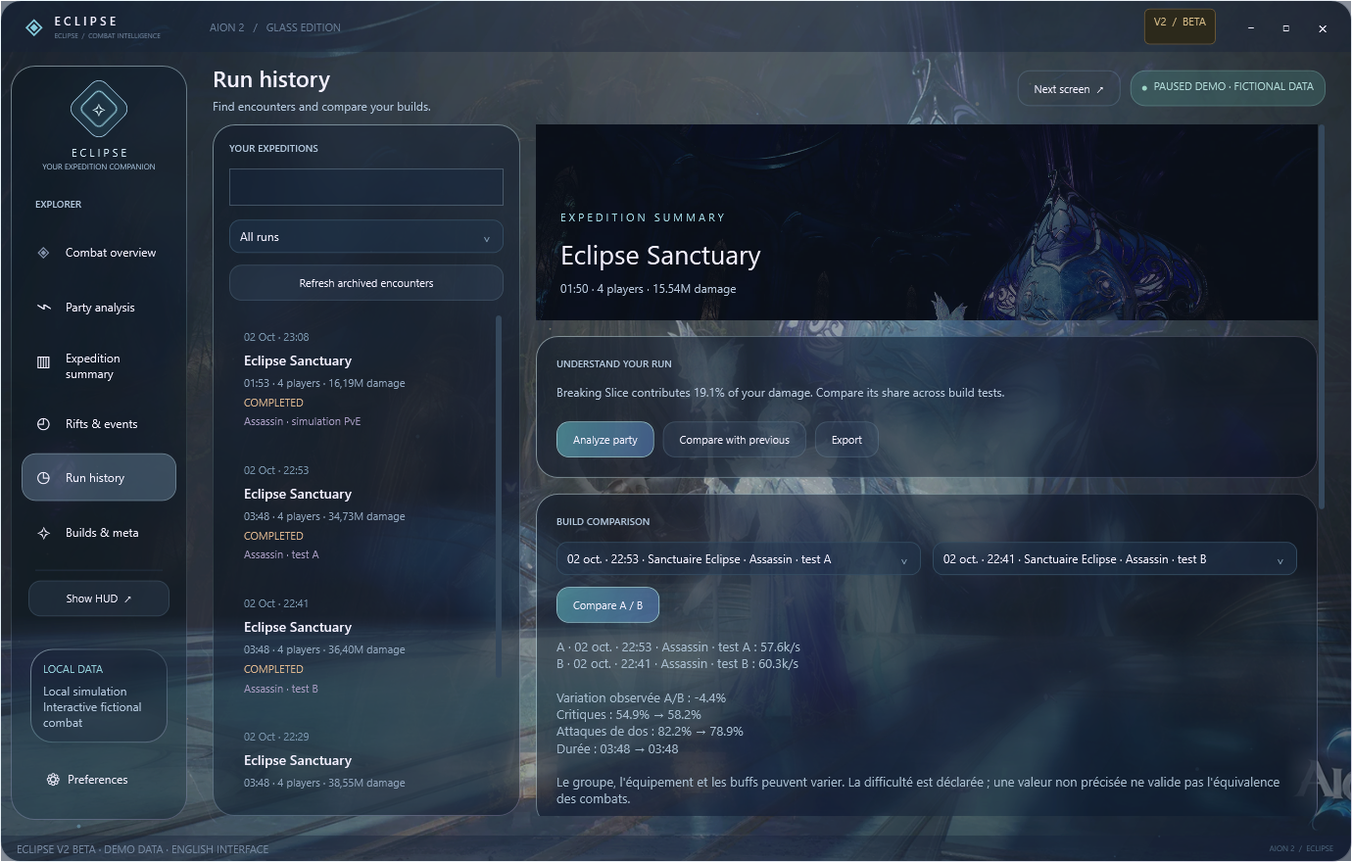
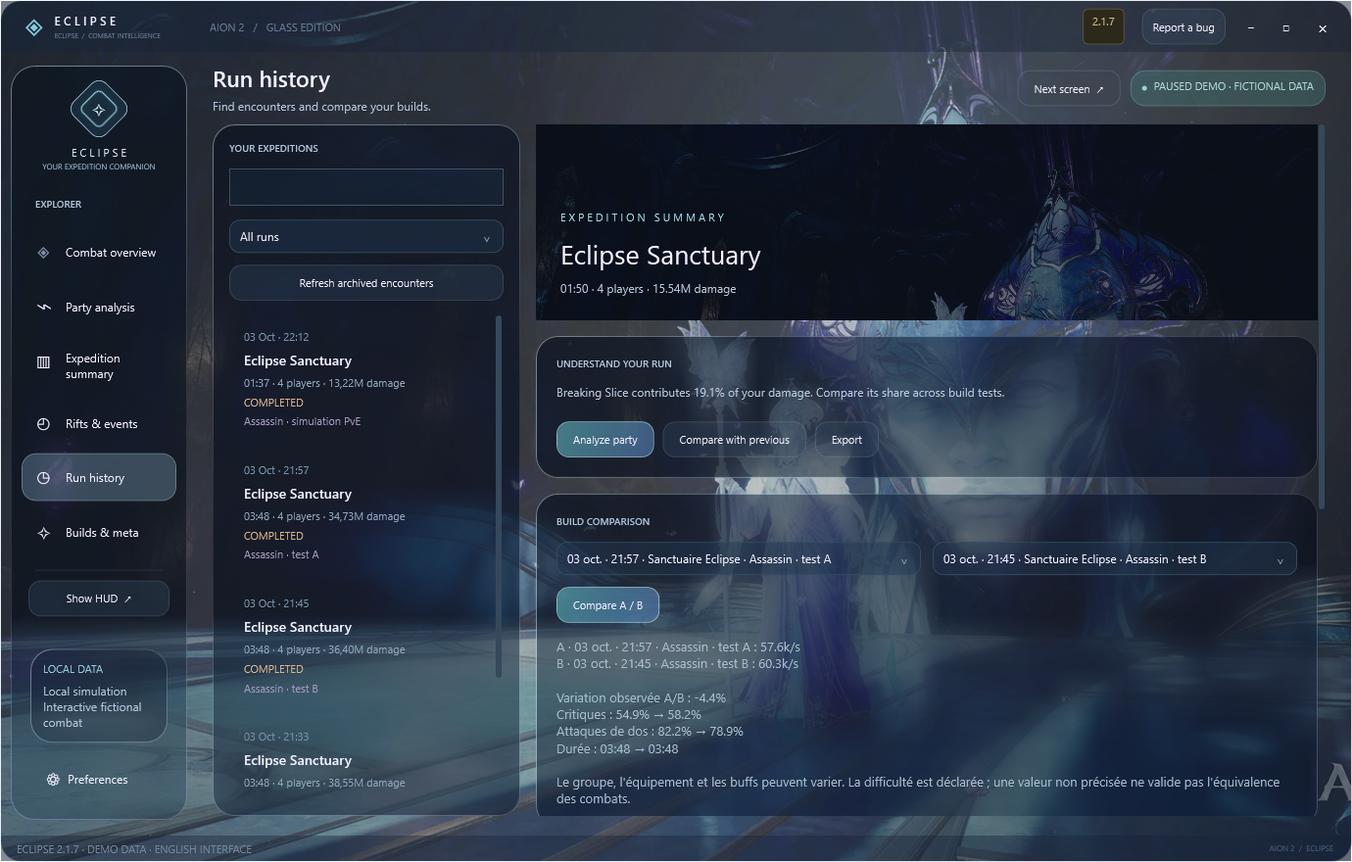
Release Eclipse 2.1.7 with corrected timers, client UPDATE and official website

diff --git a/README.md b/README.md
@@ -1,10 +1,10 @@
-# Eclipse V2 BETA — Free AION 2 DPS Meter & Combat Analyzer
+# Eclipse 2.1.7 — Free AION 2 DPS Meter & Combat Analyzer
 
-![Eclipse V2 BETA — AION 2 party DPS meter, Glass client and combat analysis for Windows](docs/images/eclipse-banner.svg)
+![Eclipse 2.1.7 — AION 2 party DPS meter, Glass client and combat analysis for Windows](docs/images/eclipse-banner.svg)
 
 [![Latest release](https://img.shields.io/github/v/release/Iota-Nine/Aion2-Eclipse?label=Download&color=75bdcf)](https://github.com/Iota-Nine/Aion2-Eclipse/releases/latest)
 [![Downloads](https://img.shields.io/github/downloads/Iota-Nine/Aion2-Eclipse/total?color=9384d0)](https://github.com/Iota-Nine/Aion2-Eclipse/releases)
-![Public BETA](https://img.shields.io/badge/V2-PUBLIC%20BETA-d8bd88)
+![Version 2.1.7](https://img.shields.io/badge/Version-2.1.7-d8bd88)
 ![Windows x64](https://img.shields.io/badge/Windows-x64-507cab)
 ![English and French](https://img.shields.io/badge/Language-EN%20%2F%20FR-75bdcf)
 
@@ -12,11 +12,11 @@
 
 Eclipse is a free AION 2 damage meter for Windows with a live party overlay and a full Glass desktop client. Follow damage, inspect skills, review dungeon runs and compare your builds in one place. Keep it on a second monitor, minimize it during the fight, then come back to your expedition summary.
 
-**[Download Eclipse V2 BETA for Windows](https://github.com/Iota-Nine/Aion2-Eclipse/releases/latest)** · [Français](docs/README.fr.md) · [What's new](CHANGELOG.md) · [Report an issue](https://github.com/Iota-Nine/Aion2-Eclipse/issues/new/choose)
+**[Download Eclipse 2.1.7 for Windows](https://github.com/Iota-Nine/Aion2-Eclipse/releases/latest)** · [Français](docs/README.fr.md) · [What's new](CHANGELOG.md) · [Report an issue](https://github.com/Iota-Nine/Aion2-Eclipse/issues/new/choose)
 
-**V2 BETA is the main Eclipse update and replaces V1.** Existing users can use **UPDATE**; new users get the same V2 ZIP. English is the default language. French is available in Preferences. No Eclipse account or signup is required.
+**Eclipse 2.1.7 is the main Eclipse update and replaces V1.** Existing users can use **UPDATE**; new users get the same V2 ZIP. English is the default language. French is available in Preferences. No Eclipse account or signup is required.
 
-![AION 2 DPS meter — Eclipse V2 BETA English combat overview with party damage and skill analysis](docs/images/eclipse-combat-en.png)
+![AION 2 DPS meter — Eclipse 2.1.7 English combat overview with party damage and skill analysis](docs/images/eclipse-combat-en.png)
 
 *Native screenshot of the released client. All gallery combat values are explicitly labelled demo data.*
 
@@ -34,9 +34,9 @@ Eclipse is a free AION 2 damage meter for Windows with a live party overlay and 
 | **A/B build comparisons** | Compare completed runs with matching target, region, declared difficulty and personal class. See observed DPS, critical-hit and back-attack changes. |
 | **Personal build profiles** | Save class skill selections, notes, activity and region. Your run keeps a snapshot of the selected profile for later review. |
 | **Dated class meta and community builds** | Refresh MetaRoad's contextual class rankings and links to community builds. Source, update date and regional uncertainty stay visible. Your own runs also form a separate local class ranking. |
-| **Dedicated Rift timers** | Prominent portal countdown, a separate five-minute entry window and one-hour event timer, next four openings in local time and UTC. Select EU, NA, SA, JP, TW or KR from the dated Talentbuilds community reference. |
+| **Dedicated Rift timers** | Regional AION2Hub openings, fixed server clock and four future local/UTC times. Global/KR UTC+9; Taiwan UTC+8. Unknown travel portal durations stay unspecified. |
 | **Rift reminders** | Favourite the Rift and enable its independent alert at 10 minutes before, 5 minutes before or opening. Region, favourite and timing are saved; reminders continue while minimized. |
-| **Boss and event timers** | A dated Korean-server calendar with server time, local time, upcoming events and matchmaking groups; personal monster reminders and target segments are also available. |
+| **Boss and event timers** | Regional AION2Hub calendar, corrected Kaira and executor times, Abyss events, Beritra and KR/TW PvP activities. Personal monster reminders and target segments remain available. |
 | **Favourite boss alerts** | Star the event, enable **Notify me** and choose **10 minutes before**, **5 minutes before** or **at the scheduled time**. Reminders work while minimized and avoid duplicate alerts. |
 | **English / Français** | English on first launch; switch client, overlay and setup labels to French. Your language choice is saved. |
 | **Performance controls** | Adjust transparency, animation quality and always-on-top behaviour. Visual effects stop when minimized while capture, timers and saving continue. |
@@ -46,13 +46,17 @@ Eclipse is a free AION 2 damage meter for Windows with a live party overlay and 
 
 ## Dedicated Rift timers
 
-**Catch the entry window. Keep track of the event after the portal closes.** The Rift panel leads the Rifts & events page, works without game capture and shows your next four openings. Its countdown distinguishes a waiting portal, an open entry window and an ongoing event with entry closed.
+**Know the next opening in your local time.** Select your game service, star the Rift and enable its own reminder at 10, 5 or 0 minutes. The panel shows the fixed server clock and the next four local/UTC openings.
 
-![AION 2 Rift timer — Eclipse English Spacetime Rift portal countdown, event duration and regional favourite alerts](docs/images/eclipse-rifts-en.png)
+![AION 2 Rift timer — Eclipse English regional opening countdown and fixed server clock](docs/images/eclipse-rifts-en.png)
 
-Choose your **game server** in the Rift panel, star it and enable the reminder. Rift alerts have their own timing, separate from boss favourites. The new settings leave existing language and boss reminders intact and do not enable audio automatically.
+The bundled [AION2Hub timer](https://aion2hub.com/tools/event-timer) reference was checked on **3 October 2026**, replacing the previous sources and New York clock. Global EU/NA/SA/JP uses **UTC+9** with 00:00/03:00/06:00/09:00/12:00/15:00/18:00/21:00 server openings. KR uses **UTC+9** and TW **UTC+8**, both at 02:00/05:00/08:00/11:00/14:00/17:00/20:00/23:00 server time. Local daylight saving changes the display, never the server schedule.
 
-The bundled [Talentbuilds event timeline](https://talentbuilds.com/aion2/events-timeline) reference was checked on **2 October 2026**. Its EU/NA/SA/JP/KR schedules share one clock; TW is one hour later. The site actually calculates openings in **America/New_York (EST/EDT)**, which Eclipse converts per opening to your local time. It lists a **5-minute entry window** and a **1-hour event**. The separate 6sword KR reference lists 15-minute entry. Both sources remain visible: these are attributed scheduled reminders, not confirmation from game packets or an official global timetable. Check the source and in-game notices if the schedules disagree.
+Travel portal entry/lifetime is **not confirmed by this source**, so Eclipse no longer presents five-minute entry or one-hour event phases as established. Domination and Abyss Rift Zone have separate sourced activity durations and are KR/TW only. Regional [boss schedules](https://aion2hub.com/tools/world-bosses) are also corrected, including Kaira's interval and executor weekdays. Unverified matchmaking offsets have been removed. These are dated community schedules, not live spawn detections or official NCSOFT confirmation.
+
+## Official website and bug reports
+
+**[Open the Eclipse website](https://eclipse-aion2-dps-meter.smart-bead-7533.chatgpt.site)** for downloads, English/French features, client screenshots and optional ambient music. **Report a bug** in the client opens the private website form with your version filled in. Submitted fields are stored for support; JSON export is available. Combat logs and tokens are not uploaded automatically. GitHub Issues remain available for public discussions.
 
 ## Screenshots — English interface
 
@@ -84,7 +88,7 @@ The images below come from the native Windows application. Combat data is simula
 
 ## Install Eclipse
 
-1. Open the **[latest release](https://github.com/Iota-Nine/Aion2-Eclipse/releases/latest)** and download **`Aion2-Eclipse-v2.1.6-win-x64.zip`** under Assets. GitHub's “Source code” archives are not the application.
+1. Open the **[latest release](https://github.com/Iota-Nine/Aion2-Eclipse/releases/latest)** and download **`Aion2-Eclipse-v2.1.7-win-x64.zip`** under Assets. GitHub's “Source code” archives are not the application.
 2. **Extract the entire ZIP** to a folder on your PC.
 3. Run **`Eclipse.Setup.exe`**. Choose your language. If Npcap is missing, setup downloads its official installer, asks for Windows permission and lets you accept the installation wizard. Eclipse continues when it finishes.
 4. Open AION 2. If you were already in the world, teleport or change channels once to receive your character identity. Join or refresh your party after starting Eclipse.
@@ -94,7 +98,7 @@ Setup creates Desktop and Start menu shortcuts and installs Eclipse for your Win
 
 ## Upgrade from V1 or an earlier V2
 
-**Click UPDATE in Eclipse to install the latest V2 BETA in the same folder.** V2 uses the same executable name and public update channel. Existing `data` and HUD preferences are preserved; V2 creates its own client history there. The updater verifies the release and checks the installed executable version before restarting it.
+**UPDATE appears in the full client only when a newer version is detected, just like the overlay.** A luminous progress panel shows the real download percentage, then verification and installation preparation. **Click UPDATE in Eclipse to install Eclipse 2.1.7 in the same folder.** V2 uses the same executable name and public update channel. Existing `data` and HUD preferences are preserved; V2 creates its own client history there. The updater verifies the release and checks the installed executable version before restarting it.
 
 If an older updater keeps reopening V1, download the latest ZIP, extract it fully and run **`Eclipse.Setup.exe`** once. V1 is superseded; historical release pages remain available. An already downloaded V1 executable does not disable itself remotely.
 
@@ -108,9 +112,9 @@ If an older updater keeps reopening V1, download the latest ZIP, extract it full
 
 **Is there an official AION API?** Combat capture uses local network packets through Npcap. Eclipse also exposes its own authenticated, loopback-only local API for local integrations; that is separate from an official game API. Meta and build sources are fetched over HTTPS.
 
-**Will it work from another country?** Your physical location and interface language do not choose the game protocol. Windows configuration, network adapters and the AION 2 server/client version matter. Choose the appropriate source region in Preferences and use the connection page to diagnose capture. BETA compatibility is not guaranteed for every machine or future regional patch.
+**Will it work from another country?** Your physical location and interface language do not choose the game protocol. Windows configuration, network adapters and the AION 2 server/client version matter. Choose the appropriate source region in Preferences and use the connection page to diagnose capture. Compatibility is not guaranteed for every machine or future regional patch.
 
-**Are boss timers live spawn detection?** They are scheduled reminders. The built-in timetable is a dated transcription for **Korean servers**, converted to your local time, based on [6Sword's AION 2 timers](https://6sword.com/en/aion2/timers) and the linked official notices. Other regions remain pending official schedules; Eclipse does not substitute Korean times for Europe or North America. The favourite alarm is optional; the intro stays silent.
+**Are boss timers live spawn detection?** They are dated AION2Hub scheduled reminders, converted to your local time. Choose the actual service: Global, Korea and Taiwan have different schedules. Favourite audio is optional; the intro stays silent.
 
 **Is the class meta universal?** No. [MetaRoad's contextual tier list](https://metaroad.gg/aion2/getting-started/aion-2-class-tier-list-before-global-launch-best-classes-for-pve-pvp) and [community builds](https://metaroad.gg/aion2/community-builds) are dated community sources. The app refreshes them at launch and periodically, shows cached dates if unavailable and keeps regional uncertainty visible. Local rankings reflect only your saved runs, not all players.
 

diff --git a/docs/README.fr.md b/docs/README.fr.md
@@ -1,16 +1,16 @@
-# Eclipse V2 BETA — Compteur DPS AION 2 et analyse des combats
+# Eclipse 2.1.7 — Compteur DPS AION 2 et analyse des combats
 
-![Eclipse V2 BETA — compteur DPS AION 2, client Glass et analyse de groupe pour Windows](images/eclipse-banner.svg)
+![Eclipse 2.1.7 — compteur DPS AION 2, client Glass et analyse de groupe pour Windows](images/eclipse-banner.svg)
 
 **Suis les DPS de ton groupe en combat. Comprends tout le run quand le donjon est terminé.**
 
 Eclipse réunit un compteur de dégâts AION 2, un HUD et un grand client Windows à l'interface translucide. Regarde les compétences qui font la différence, conserve tes bilans et compare tes builds. Place le client sur un deuxième écran, réduis-le pendant le combat, puis retrouve ton résumé après le donjon.
 
-**[Télécharger Eclipse V2 BETA](https://github.com/Iota-Nine/Aion2-Eclipse/releases/latest)** · [English](../README.md) · [Nouveautés](../CHANGELOG.md) · [Signaler un bug](https://github.com/Iota-Nine/Aion2-Eclipse/issues/new/choose)
+**[Télécharger Eclipse 2.1.7](https://github.com/Iota-Nine/Aion2-Eclipse/releases/latest)** · [English](../README.md) · [Nouveautés](../CHANGELOG.md) · [Signaler un bug](https://github.com/Iota-Nine/Aion2-Eclipse/issues/new/choose)
 
-**La V2 BETA est la mise à jour principale d'Eclipse et remplace la V1.** Depuis la V1, clique sur **UPDATE**. Les nouveaux utilisateurs téléchargent le même ZIP. La langue initiale est l'anglais ; le français se choisit dans Preferences. Aucun compte Eclipse ni inscription.
+**La Eclipse 2.1.7 est la mise à jour principale d'Eclipse et remplace la V1.** Depuis la V1, clique sur **UPDATE**. Les nouveaux utilisateurs téléchargent le même ZIP. La langue initiale est l'anglais ; le français se choisit dans Preferences. Aucun compte Eclipse ni inscription.
 
-![Interface anglaise d'Eclipse V2 BETA — compteur DPS et dégâts du groupe dans AION 2](images/eclipse-combat-en.png)
+![Interface anglaise d'Eclipse 2.1.7 — compteur DPS et dégâts du groupe dans AION 2](images/eclipse-combat-en.png)
 
 *Capture de l'application Windows publiée, avec des valeurs fictives signalées dans l'interface. Toutes les captures de présentation sont en anglais.*
 
@@ -28,9 +28,9 @@ Eclipse réunit un compteur de dégâts AION 2, un HUD et un grand client Window
 | **Comparaison A/B** | Compare des runs terminés avec cible, région, difficulté déclarée et classe personnelle correspondantes. Observe les variations de DPS, critiques et attaques de dos. |
 | **Profils de build** | Sélection des compétences, notes, activité et région. Chaque run conserve une copie du profil utilisé. |
 | **Méta et builds communautaires** | Actualisation des classements contextuels et liens MetaRoad, avec date, source et incertitude régionale visibles. Classement local séparé d'après tes propres runs. |
-| **Timer des failles** | Panneau prioritaire : prochaine ouverture, entrée de 5 min et événement de 1 h séparés, quatre ouvertures suivantes en heure locale et UTC. Référence Talentbuilds pour EU, NA, SA, JP, TW et KR. |
+| **Timer des failles** | Horaires régionaux AION2Hub, horloge fixe du serveur et quatre ouvertures locales/UTC. Global/KR UTC+9 ; Taïwan UTC+8. Durée inconnue du portail laissée indéterminée. |
 | **Alertes de faille** | Favori + rappel indépendant à 10 min, 5 min ou à l’ouverture. Serveur et réglages mémorisés ; rappel actif en fenêtre réduite. |
-| **Chronos de boss et d'événements** | Calendrier daté des serveurs coréens, heure du serveur et heure locale, groupes de matchmaking, segments de cibles et rappels personnels de monstres. |
+| **Chronos de boss et d'événements** | Calendrier régional AION2Hub, horaires corrigés Kaira/exécuteurs, événement des Abysses, Beritra et PvP KR/TW. Rappels personnels conservés. |
 | **Alertes de boss favoris** | Étoile + **Notify me**, puis choix entre **10 min avant**, **5 min avant** et **à l'heure prévue**. Fonctionne en fenêtre réduite, sans doublons. |
 | **Anglais / Français** | Anglais à la première ouverture, français dans les réglages du client, du HUD et du setup. Choix mémorisé. |
 | **Réglages de performance** | Transparence, qualité des animations et premier plan. Les effets s'arrêtent en fenêtre réduite ; capture, chronos et sauvegardes continuent. |
@@ -40,11 +40,17 @@ Eclipse réunit un compteur de dégâts AION 2, un HUD et un grand client Window
 
 ## Le nouveau timer des failles
 
-Le panneau de la faille apparaît en premier dans **Rifts & events**. Il distingue l'ouverture du portail, la fermeture de l'entrée et la fin de l'événement. Choisis ton serveur de jeu, ajoute la faille aux favoris et active son rappel ; le délai est indépendant des boss et fonctionne sans capture du jeu. Aucun son n'est activé automatiquement.
+Le panneau affiche la prochaine ouverture, l'horloge fixe du serveur et quatre horaires à ton heure locale / UTC. Choisis ton service, ajoute le favori et sélectionne le rappel 10, 5 ou 0 minutes. Aucun son n'est activé automatiquement.
 
-![Timer de faille AION 2 — capture anglaise du panneau Eclipse, portail et événement séparés](images/eclipse-rifts-en.png)
+![Timer de faille AION 2 — vraie interface anglaise Eclipse, prochaine ouverture et horloge serveur](images/eclipse-rifts-en.png)
 
-Référence communautaire [Talentbuilds](https://talentbuilds.com/aion2/events-timeline), vérifiée le **2 octobre 2026** : EU/NA/SA/JP/KR partagent les horaires de cette source, TW est une heure plus tard. Son calcul suit New York (EST/EDT) ; Eclipse convertit chaque ouverture dans ton fuseau. Talentbuilds indique 5 min d'entrée et 1 h d'événement, alors que la référence KR de 6sword indique 15 min d'entrée. Les sources restent distinctes et visibles. Ce sont des rappels de calendrier, pas une détection réelle du portail ni des horaires globaux officiellement confirmés. Consulte la source et les annonces du jeu en cas d'écart.
+Référence [AION2Hub](https://aion2hub.com/tools/event-timer), vérifiée le **3 octobre 2026**, en remplacement des anciens timers. Global EU/NA/SA/JP : **UTC+9**, à 00/03/06/09/12/15/18/21 h serveur. KR : **UTC+9** ; TW : **UTC+8**, à 02/05/08/11/14/17/20/23 h serveur. Le changement d'heure local ne modifie pas les horaires serveur.
+
+La durée du portail de voyage n'est **pas confirmée par cette source** : les phases de 5 min d'entrée et 1 h d'événement sont retirées. Domination et Zone de faille des Abysses restent des activités distinctes, réservées KR/TW, avec leurs durées sourcées. Les [boss](https://aion2hub.com/tools/world-bosses) sont corrigés aussi : intervalle de Kaira, jours des exécuteurs et absence de décalage de matchmaking non confirmé. Calendrier communautaire daté, pas une détection réelle ni une confirmation officielle NCSOFT.
+
+## Site officiel et rapports de bugs
+
+**[Ouvrir le site Eclipse](https://eclipse-aion2-dps-meter.smart-bead-7533.chatgpt.site)** : téléchargement, présentation FR/EN, captures et musique d'ambiance facultative. **Report a bug** dans le client ouvre le formulaire privé avec ta version. Les champs envoyés sont enregistrés pour le dépannage et exportables en JSON. Aucun log de combat ni jeton n'est transmis automatiquement. GitHub Issues reste disponible pour les discussions publiques.
 
 ## Captures — interface anglaise
 
@@ -64,7 +70,7 @@ Les images viennent du client Windows natif et utilisent des données de démons
 
 ## Installation
 
-1. Dans la **[dernière release](https://github.com/Iota-Nine/Aion2-Eclipse/releases/latest)**, télécharge **`Aion2-Eclipse-v2.1.6-win-x64.zip`** dans Assets. Les archives « Source code » de GitHub ne contiennent pas l'application.
+1. Dans la **[dernière release](https://github.com/Iota-Nine/Aion2-Eclipse/releases/latest)**, télécharge **`Aion2-Eclipse-v2.1.7-win-x64.zip`** dans Assets. Les archives « Source code » de GitHub ne contiennent pas l'application.
 2. **Extrais tout le ZIP** dans un dossier de ton PC.
 3. Lance **`Eclipse.Setup.exe`** et choisis la langue. Si Npcap manque, l'assistant télécharge son installateur officiel. Accepte la permission Windows et termine l'assistant Npcap ; Eclipse continue automatiquement.
 4. Lance AION 2. Si tu étais déjà en jeu, téléporte-toi ou change de canal une fois. Rejoins ou actualise le groupe après avoir ouvert Eclipse.
@@ -74,7 +80,7 @@ Le setup installe Eclipse pour ton compte Windows et crée les raccourcis Bureau
 
 ## Mise à jour depuis la V1 ou une V2 précédente
 
-**UPDATE installe la V2 BETA dans le même dossier.** Le nom de l'exécutable et le canal public restent compatibles. Le dossier `data` et les réglages du HUD sont conservés ; le client V2 y ajoute son historique. L'updater vérifie la release et la version réellement installée avant de relancer Eclipse.
+**UPDATE apparaît dans le client uniquement lorsqu'une version plus récente est détectée, comme dans l'overlay.** Une barre lumineuse indique le pourcentage réel du téléchargement, puis les étapes de vérification et de préparation. **UPDATE installe Eclipse 2.1.7 dans le même dossier.** Le nom de l'exécutable et le canal public restent compatibles. Le dossier `data` et les réglages du HUD sont conservés ; le client V2 y ajoute son historique. L'updater vérifie la release et la version réellement installée avant de relancer Eclipse.
 
 Si un ancien updater boucle sur la V1, télécharge le dernier ZIP, extrais-le entièrement et lance **`Eclipse.Setup.exe`** une fois. La V1 est remplacée, mais les anciennes pages de release restent accessibles. Un ancien exécutable déjà téléchargé ne se désactive pas à distance.
 
@@ -88,9 +94,9 @@ Si un ancien updater boucle sur la V1, télécharge le dernier ZIP, extrais-le e
 
 **API ou réseau ?** La capture combat utilise les paquets locaux via Npcap. L'API locale authentifiée d'Eclipse sert aux intégrations sur ton PC ; ce n'est pas une API officielle du jeu. Les sources de méta et de builds sont consultées en HTTPS.
 
-**Depuis un autre pays ?** Le pays et la langue de l'interface ne choisissent pas le protocole du jeu. Windows, les cartes réseau et la version du client / serveur AION 2 comptent. Choisis la bonne région de source et consulte le panneau de connexion. Cette BETA ne garantit pas chaque PC ni chaque futur patch régional.
+**Depuis un autre pays ?** Le pays et la langue de l'interface ne choisissent pas le protocole du jeu. Windows, les cartes réseau et la version du client / serveur AION 2 comptent. Choisis la bonne région de source et consulte le panneau de connexion. Eclipse ne garantit pas chaque PC ni chaque futur patch régional.
 
-**Les chronos confirment-ils une apparition ?** Ce sont des rappels d'horaires. Le calendrier intégré est une transcription datée pour les **serveurs coréens**, convertie dans ton heure locale, d'après [6Sword](https://6sword.com/en/aion2/timers) et ses liens officiels. Les autres régions attendent des horaires officiels ; les horaires coréens ne sont pas appliqués à l'Europe ou à l'Amérique du Nord. Seuls les favoris explicitement activés sonnent. L'intro reste silencieuse.
+**Les chronos confirment-ils une apparition ?** Ce sont des rappels AION2Hub datés, convertis à ton heure locale. Choisis le vrai service : Global, KR et TW ont des horaires distincts. Seuls les favoris activés sonnent ; l'intro reste silencieuse.
 
 **La méta est-elle universelle ?** Les [classements contextuels MetaRoad](https://metaroad.gg/aion2/getting-started/aion-2-class-tier-list-before-global-launch-best-classes-for-pve-pvp) et les [builds communautaires](https://metaroad.gg/aion2/community-builds) sont des sources datées. L'app les actualise au démarrage et périodiquement, affiche le cache daté si elles sont indisponibles et signale l'incertitude régionale. Le classement local représente uniquement tes runs sauvegardés.
 

diff --git a/CHANGELOG.md b/CHANGELOG.md
@@ -1,6 +1,20 @@
 # Eclipse release notes
 
+## v2.1.7 — Corrected regional schedules, conditional UPDATE and official website
+
+- AION2Hub replaces the former timer sources. Global EU/NA/SA/JP and Korea use fixed UTC+9, Taiwan UTC+8. Region-specific Rift openings convert to the device timezone without following US DST.
+- Travel Rift entry/lifetime is unspecified by the new source. Removed the unconfirmed five-minute entry and one-hour activity phases; show the server clock and next opening instead.
+- Corrected regional Kaira intervals, executor weekdays, Abyss Event, siege bosses and KR/TW-only activities. Removed unsupported matchmaking offsets. Each card links to its dated community source.
+- Boss favourite keys, Rift selection, language and reminder timing are preserved. Alert delivery IDs include the service; former-source receipts do not suppress corrected openings.
+- UPDATE appears in the full client only when a newer release is detected, matching the overlay. A glass progress panel shows the real download percentage and animated verification/preparation phases. Report a bug opens the new official website form with the installed version.
+- Version 2.1.7 replaces the current BETA labels in client, overlay, intro and promotional screenshots. This branding change does not guarantee every future regional protocol.
+- English/French website, native English screenshots, optional original ambient music, guided download and private persistent bug reports with JSON export. No automatic player-log upload.
+
+Validation: 436 logic checks, native regional/FR/EN/reminder/update/close checks, final ZIP migrations from V1 and 2.1.6, 424 original files unchanged. Website form persistence, JSON download, language and mobile layout checked locally.
+
 ## v2.1.6 — Rift entry and event timers
+
+The schedules and portal durations in this historical release were superseded by the corrected 2.1.7 source below.
 
 - Dedicated Rift panel at the top of Rifts & events, with waiting, scheduled portal-open and event-active/entry-closed phases.
 - Separate five-minute entry and one-hour event clocks, progress bars and next four local/UTC openings.
